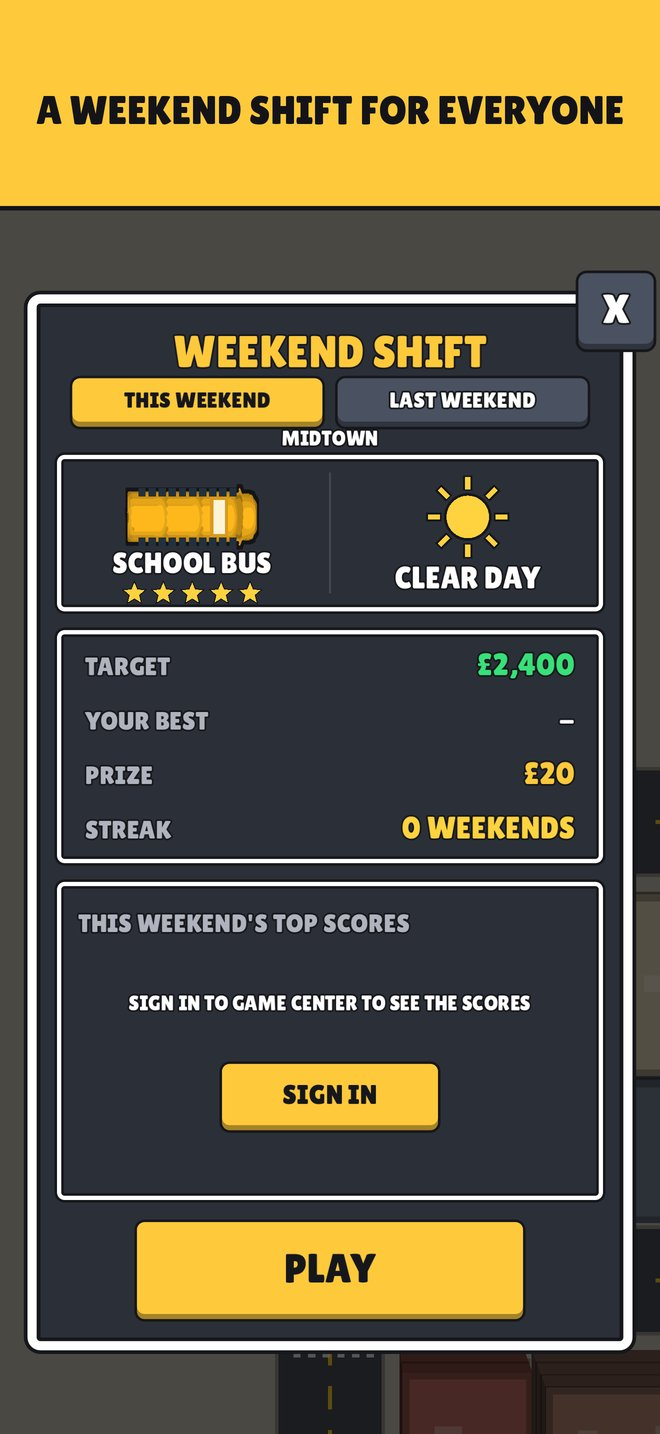
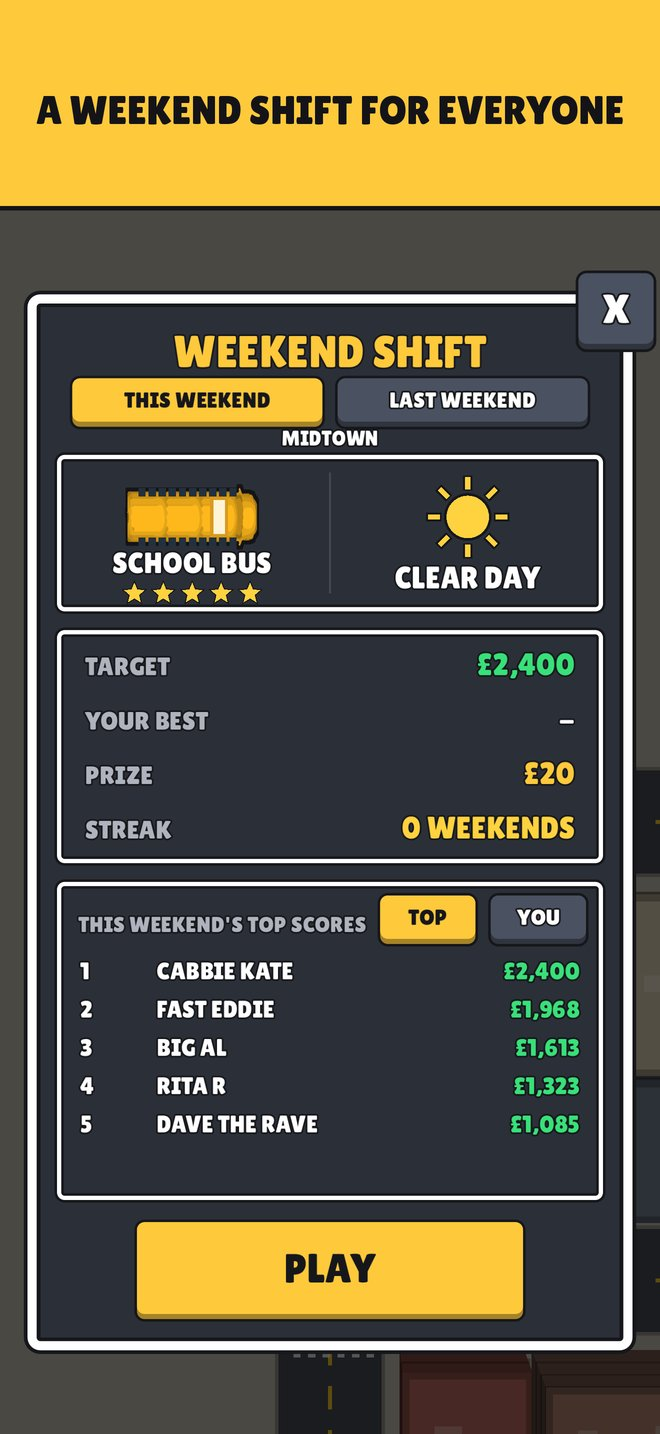
Taxi Dash page redesigned from the game's own city (asphalt, pavement, taxi yellow, road markings), the drift as its hero; clips in a strip, screenshots in a row; the leaderboard screenshot with players

Changed region(s): [[0.1212, 0.6137, 0.9091, 0.7978]]

diff --git a/taxi-dash/index.html b/taxi-dash/index.html
@@ -4,130 +4,290 @@
   <meta charset="UTF-8">
   <meta name="viewport" content="width=device-width, initial-scale=1.0">
   <title>Taxi Dash</title>
-  <meta name="description" content="Taxi Dash: a one-thumb arcade driving game for iPhone and iPad. Pick up. Drift. Drop off.">
+  <meta name="description" content="Taxi Dash is a one-thumb arcade driving game for iPhone and iPad. Pick up fares, choose your own route, drift round corners and beat the clock. Out 14 January 2027.">
   <meta property="og:title" content="Taxi Dash">
-  <meta property="og:description" content="Pick up. Drift. Drop off. A one-thumb arcade driving game for iPhone and iPad.">
-  <meta property="og:image" content="https://aknightsgame.github.io/taxi-dash/media/header.jpg">
-  <link rel="stylesheet" href="../assets/style.css">
+  <meta property="og:description" content="Pick up. Drift. Drop off. A one-thumb arcade driving game for iPhone and iPad, out 14 January 2027.">
+  <meta property="og:image" content="https://aknightsgame.github.io/taxi-dash/media/header-small.jpg">
+  <meta name="theme-color" content="#3e424a">
+  <link rel="preconnect" href="https://fonts.googleapis.com">
+  <link rel="preconnect" href="https://fonts.gstatic.com" crossorigin>
+  <link href="https://fonts.googleapis.com/css2?family=Atkinson+Hyperlegible:ital,wght@0,400;0,700;1,400&family=Lilita+One&display=swap" rel="stylesheet">
   <style>
-    .wide { max-width: 1100px; }
-    .header-img { width: 100%; display: block; border-radius: 20px; border: 3px solid #5c5c94; box-shadow: 0 8px 40px rgba(0,0,0,0.6); }
-    .tagline { font-size: 1.25rem; color: #ffc93c; font-weight: 700; letter-spacing: 0.06em; text-transform: uppercase; margin: 8px 0 4px; }
-    .lede { max-width: 640px; margin: 12px auto 0; }
-    .grid { display: grid; grid-template-columns: repeat(auto-fill, minmax(220px, 1fr)); gap: 20px; margin-top: 16px; }
-    .grid figure { margin: 0; }
-    .grid video, .grid img { width: 100%; display: block; border-radius: 14px; border: 2px solid #5c5c94; background: #000; }
-    .grid figcaption { font-size: 0.85rem; color: #c0c0da; margin-top: 8px; text-align: center; }
-    .preview { display: flex; gap: 32px; align-items: center; flex-wrap: wrap; }
-    .preview video { width: 300px; max-width: 100%; border-radius: 18px; border: 3px solid #5c5c94; background: #000; }
-    .preview div { flex: 1; min-width: 260px; }
-    .facts li { margin-bottom: 8px; }
-    @media (max-width: 600px) { .panel { padding: 28px 20px; } nav { padding: 14px 16px; } }
+    /* The page is drawn from the game's own top-down city: asphalt, the sand
+       pavement, taxi yellow, road markings as the dividers. */
+    :root {
+      --asphalt: #3e424a;
+      --asphalt-deep: #33363d;
+      --pavement: #ecdaa6;
+      --pavement-edge: #d9c48a;
+      --taxi: #ffc93c;
+      --marking: #f3f1ea;
+      --ink: #17181b;
+      --sea: #2e8fc7;
+      --display: "Lilita One", "Arial Rounded MT Bold", system-ui, sans-serif;
+      --body: "Atkinson Hyperlegible", system-ui, -apple-system, sans-serif;
+      --measure: 34rem;
+    }
+
+    *, *::before, *::after { box-sizing: border-box; }
+    html { -webkit-text-size-adjust: 100%; }
+    body {
+      margin: 0;
+      font-family: var(--body);
+      font-size: 1.0625rem;
+      line-height: 1.6;
+      color: var(--marking);
+      background: var(--asphalt);
+    }
+    img, video { display: block; max-width: 100%; }
+    a { color: inherit; }
+    :focus-visible { outline: 3px solid var(--taxi); outline-offset: 3px; }
+
+    h1, h2, h3 { font-family: var(--display); font-weight: 400; line-height: 1.05; margin: 0; }
+    h2 { font-size: clamp(2rem, 4.5vw, 3rem); }
+    h3 { font-size: 1.35rem; }
+    p { margin: 0 0 1em; max-width: var(--measure); }
+
+    .wrap { width: min(1120px, 100% - 2rem); margin-inline: auto; }
+
+    /* Top bar */
+    .bar {
+      position: absolute; inset: 0 0 auto 0; z-index: 2;
+      display: flex; justify-content: space-between; align-items: center;
+      padding: 1rem clamp(1rem, 3vw, 2rem);
+      font-weight: 700;
+    }
+    .bar a { text-decoration: none; color: var(--ink); background: var(--marking); padding: .35rem .8rem; border-radius: 999px; border: 2px solid var(--ink); font-size: .9rem; }
+    .bar a:hover { background: var(--taxi); }
+
+    /* Hero: the game's own frame, full bleed, the title in a panel framed like the game's pop-ups */
+    .hero { position: relative; background: var(--asphalt); }
+    .hero picture img {
+      width: 100%; height: min(86vh, 56.25vw); min-height: 460px;
+      object-fit: cover; object-position: 56% 45%;
+    }
+    .sign {
+      position: absolute; left: clamp(1rem, 5vw, 4rem); bottom: clamp(1rem, 5vw, 3.5rem);
+      max-width: 38rem;
+      background: var(--asphalt-deep);
+      border: 3px solid var(--ink);
+      box-shadow: 0 0 0 6px var(--marking), 0 0 0 9px var(--ink), 0 18px 40px rgba(23,24,27,.45);
+      border-radius: 18px;
+      padding: clamp(1.25rem, 3vw, 2rem) clamp(1.25rem, 3vw, 2.25rem);
+    }
+    .sign h1 {
+      font-size: clamp(3.2rem, 8vw, 6rem);
+      white-space: nowrap;
+      color: var(--taxi);
+      letter-spacing: .01em;
+      text-shadow: 0 4px 0 var(--ink);
+      -webkit-text-stroke: 2px var(--ink);
+      paint-order: stroke fill;
+    }
+    .sign .line { font-family: var(--display); font-size: clamp(1.3rem, 2.6vw, 1.7rem); margin: .35rem 0 .9rem; }
+    .sign p { color: #d9dbe0; margin-bottom: 1.25rem; }
+    .actions { display: flex; flex-wrap: wrap; gap: .75rem; align-items: center; }
+    .button {
+      display: inline-block; font-family: var(--display); font-size: 1.15rem; text-decoration: none;
+      color: var(--ink); background: var(--taxi); border: 3px solid var(--ink); border-radius: 12px;
+      padding: .55rem 1.15rem .5rem; box-shadow: 0 4px 0 var(--ink);
+      transition: transform .12s ease, box-shadow .12s ease;
+    }
+    .button:hover { transform: translateY(2px); box-shadow: 0 2px 0 var(--ink); }
+    .button.quiet { background: var(--marking); }
+    .date { font-weight: 700; color: var(--taxi); }
+
+    /* Dividers are road markings */
+    .centre-line {
+      height: 10px; margin: 0;
+      background: repeating-linear-gradient(90deg, var(--taxi) 0 46px, transparent 46px 84px);
+    }
+    .zebra {
+      height: 44px;
+      background: repeating-linear-gradient(90deg, var(--marking) 0 22px, var(--asphalt) 22px 44px);
+    }
+
+    section { padding: clamp(3.5rem, 8vw, 6rem) 0; }
+
+    /* Preview */
+    .preview .wrap { display: grid; grid-template-columns: minmax(0, 320px) 1fr; gap: clamp(2rem, 6vw, 5rem); align-items: center; }
+    .phone {
+      background: var(--ink); border-radius: 44px; padding: 12px;
+      box-shadow: 0 30px 60px rgba(0,0,0,.35);
+    }
+    .phone video { width: 100%; border-radius: 32px; aspect-ratio: 590 / 1280; background: var(--ink); }
+    .preview h2 { color: var(--taxi); margin-bottom: 1rem; }
+    .facts { list-style: none; padding: 0; margin: 1.75rem 0 0; display: grid; gap: .9rem; max-width: 36rem; }
+    .facts li { padding-left: 1.4rem; position: relative; }
+    .facts li::before { content: ""; position: absolute; left: 0; top: .55em; width: .65rem; height: .65rem; border-radius: 3px; background: var(--taxi); }
+    .facts strong { color: #fff; }
+
+    /* Districts: clips on the pavement */
+    .pavement { background: var(--pavement); color: var(--ink); }
+    .pavement h2 { margin-bottom: .75rem; }
+    .intro { display: flex; justify-content: space-between; align-items: end; gap: 1.5rem; flex-wrap: wrap; margin-bottom: 2.25rem; }
+    .intro p { margin: 0; }
+    .clips { display: grid; grid-template-columns: repeat(7, minmax(0, 1fr)); gap: 1rem; margin: 0; padding: 0; list-style: none; }
+    .clips figure { margin: 0; }
+    .clips video { width: 100%; aspect-ratio: 590 / 1280; border-radius: 14px; border: 3px solid var(--ink); background: var(--ink); }
+    .clips figcaption { margin-top: .6rem; font-weight: 700; font-size: .9rem; line-height: 1.3; }
+
+    /* Screenshots */
+    .shots { display: grid; grid-template-columns: repeat(6, minmax(0, 1fr)); gap: 1rem; }
+    .shots a { scroll-snap-align: start; }
+    .shots img { width: 100%; border-radius: 16px; border: 3px solid var(--ink); }
+    .shots-section h2 { color: var(--taxi); margin-bottom: 2rem; }
+
+    /* Fair play */
+    .fair .wrap { display: grid; grid-template-columns: repeat(3, minmax(0, 1fr)); gap: clamp(1.5rem, 4vw, 3rem); }
+    .fair h3 { margin-bottom: .6rem; }
+    .fair p { font-size: 1rem; }
+    .fair h2 { grid-column: 1 / -1; margin-bottom: .5rem; }
+
+    footer { background: var(--asphalt-deep); padding: 2.5rem 0 3rem; font-size: .95rem; color: #c9ccd3; }
+    footer .wrap { display: flex; justify-content: space-between; gap: 1.5rem; flex-wrap: wrap; }
+    footer a { color: var(--taxi); }
+    footer p { margin: 0; }
+
+    @media (max-width: 1000px) {
+      .clips, .shots { grid-template-columns: none; grid-auto-flow: column; grid-auto-columns: 46%; overflow-x: auto; scroll-snap-type: x mandatory; padding-bottom: 1rem; }
+      .clips li, .shots a { scroll-snap-align: start; }
+    }
+    @media (max-width: 760px) {
+      .sign h1 { white-space: normal; }
+      .preview .wrap { grid-template-columns: 1fr; }
+      .phone { max-width: 300px; margin-inline: auto; }
+      .fair .wrap { grid-template-columns: 1fr; }
+      .hero picture img { height: 110vw; max-height: 640px; min-height: 380px; object-position: 56% 42%; }
+      .sign { position: relative; left: auto; bottom: auto; margin: -5rem 1rem 0; max-width: none; }
+      .hero { padding-bottom: 2.5rem; }
+    }
+    @media (prefers-reduced-motion: reduce) {
+      .button { transition: none; }
+      .button:hover { transform: none; }
+    }
   </style>
 </head>
 <body>
-  <nav>
-    <a class="brand" href="/">A Knight's Game</a>
-    <a href="#clips">Clips</a>
-    <a href="#screenshots">Screenshots</a>
-    <a href="mailto:aknightsgame@gmail.com">Contact</a>
-  </nav>
-
-  <div class="container wide">
-    <img class="header-img" src="media/header.jpg" alt="A yellow taxi drifting round a corner on a sunny island, by a wooden bridge and the sea">
-
-    <div class="hero">
+  <header class="hero">
+    <nav class="bar" aria-label="Site">
+      <a href="/">A Knight's Game</a>
+      <a href="mailto:aknightsgame@gmail.com">Contact</a>
+    </nav>
+    <picture>
+      <source media="(max-width: 760px)" srcset="media/header-small.jpg">
+      <img src="media/header.jpg" alt="Seen from above, a yellow taxi drifts to a stop beside a waiting passenger on a sunny island, skid marks behind it, a wooden bridge and the sea ahead." width="2400" height="1350">
+    </picture>
+    <div class="sign">
       <h1>Taxi Dash</h1>
-      <p class="tagline">Pick up. Drift. Drop off.</p>
-      <p class="lede">A one-thumb arcade driving game for iPhone and iPad, in portrait. Pick up fares, choose your own route through the city with an edge-of-screen compass, flick to turn, hold to brake and drift round corners to beat the clock.</p>
-      <p><span class="badge">iPhone &amp; iPad</span><span class="badge" style="background:#5a4410;border-color:#ffc93c;color:#ffe9a8;">Out 14 January 2027</span></p>
+      <p class="line">Pick up. Drift. Drop off.</p>
+      <p>A one-thumb arcade driving game for iPhone and iPad. Flick to turn, hold to brake, and get every fare there before the clock runs out. <span class="date">Out 14 January 2027.</span></p>
+      <div class="actions">
+        <a class="button" href="#preview">Watch the preview</a>
+        <a class="button quiet" href="#districts">See the districts</a>
+      </div>
     </div>
+  </header>
 
-    <div class="panel" id="preview">
-      <div class="preview">
-        <video src="media/preview.mp4" poster="media/preview.jpg" controls playsinline preload="metadata"></video>
+  <div class="centre-line" role="presentation"></div>
+
+  <section class="preview" id="preview">
+    <div class="wrap">
+      <div class="phone">
+        <video src="media/preview.mp4" poster="media/preview.jpg" controls playsinline preload="none" aria-label="Taxi Dash app preview, 30 seconds of gameplay"></video>
+      </div>
+      <div>
+        <h2>A city full of people in a hurry</h2>
+        <p>You get a clock, a cab and an edge-of-screen compass. The route is up to you. Stop in the zone for a full tip, swing a U-turn into a pickup for a bonus, or grab a bolt in the road and let a super boost take over.</p>
+        <ul class="facts">
+          <li><strong>15 districts</strong>, each changing how you drive: lifting bridges, traffic lights, dust storms, match days, icy slopes and power cuts.</li>
+          <li><strong>17 cabs</strong> to collect card by card, from a golf cart and an ice cream van to a fire truck and a monster truck.</li>
+          <li><strong>Driving School</strong> lessons teach every move, and a bump only slows you down.</li>
+          <li><strong>A weekend shift</strong> that's the same for everyone, with its own Game Center leaderboard.</li>
+        </ul>
+      </div>
+    </div>
+  </section>
+
+  <div class="zebra" role="presentation"></div>
+
+  <section class="pavement" id="districts">
+    <div class="wrap">
+      <div class="intro">
         <div>
-          <h2 style="margin-top:0">App preview</h2>
-          <p>Real gameplay, captured from the game: six districts and six cabs, from a classic cab in Downtown to a golf cart on a super boost at the Seaside.</p>
-          <ul class="facts">
-            <li><strong>15 districts</strong>, each changing how you drive: lifting bridges, traffic lights, dust storms, match days, icy slopes, power cuts.</li>
-            <li><strong>17 cabs</strong> collected card by card, from a golf cart to a monster truck.</li>
-            <li><strong>Driving School</strong> lessons teach every move, and a crash only slows the cab: rated 4+.</li>
-            <li><strong>A weekend shift</strong> that's the same for everyone, with a Game Center leaderboard.</li>
-            <li><strong>Accessibility:</strong> Reduced Motion, Larger Text and Colour Cues. <strong>10 languages.</strong></li>
-            <li>Free, with optional rewarded ads only: no interstitials.</li>
-          </ul>
+          <h2>Every district drives differently</h2>
+          <p>Real gameplay, captured from the game.</p>
         </div>
       </div>
+      <ul class="clips">
+        <li><figure><video src="media/islands.mp4" poster="media/islands.jpg" muted loop playsinline preload="none" controls></video><figcaption>Choose your own route across the Islands</figcaption></figure></li>
+        <li><figure><video src="media/boost.mp4" poster="media/boost.jpg" muted loop playsinline preload="none" controls></video><figcaption>Grab a bolt and go super boost</figcaption></figure></li>
+        <li><figure><video src="media/size.mp4" poster="media/size.jpg" muted loop playsinline preload="none" controls></video><figcaption>Super size: ram straight through the traffic</figcaption></figure></li>
+        <li><figure><video src="media/bridge.mp4" poster="media/bridge.jpg" muted loop playsinline preload="none" controls></video><figcaption>Bridgeport's bridges lift for the boats</figcaption></figure></li>
+        <li><figure><video src="media/storm.mp4" poster="media/storm.jpg" muted loop playsinline preload="none" controls></video><figcaption>Dust storms in the desert hide the compass</figcaption></figure></li>
+        <li><figure><video src="media/match.mp4" poster="media/match.jpg" muted loop playsinline preload="none" controls></video><figcaption>Match day at the Stadium</figcaption></figure></li>
+        <li><figure><video src="media/night.mp4" poster="media/night.jpg" muted loop playsinline preload="none" controls></video><figcaption>Power cuts in the Night Market</figcaption></figure></li>
+      </ul>
     </div>
+  </section>
 
-    <div class="panel" id="clips">
-      <h2 style="margin-top:0">Clips</h2>
-      <div class="grid">
-        <figure>
-          <video src="media/islands.mp4" poster="media/islands.jpg" controls muted loop playsinline preload="none"></video>
-          <figcaption>Choose your own route across the Islands</figcaption>
-        </figure>
-        <figure>
-          <video src="media/boost.mp4" poster="media/boost.jpg" controls muted loop playsinline preload="none"></video>
-          <figcaption>Grab a bolt: super boost</figcaption>
-        </figure>
-        <figure>
-          <video src="media/size.mp4" poster="media/size.jpg" controls muted loop playsinline preload="none"></video>
-          <figcaption>Super size: ram the traffic</figcaption>
-        </figure>
-        <figure>
-          <video src="media/bridge.mp4" poster="media/bridge.jpg" controls muted loop playsinline preload="none"></video>
-          <figcaption>Bridgeport's bridges lift for the boats</figcaption>
-        </figure>
-        <figure>
-          <video src="media/storm.mp4" poster="media/storm.jpg" controls muted loop playsinline preload="none"></video>
-          <figcaption>Dust storms hide the compass</figcaption>
-        </figure>
-        <figure>
-          <video src="media/match.mp4" poster="media/match.jpg" controls muted loop playsinline preload="none"></video>
-          <figcaption>Match day at the Stadium</figcaption>
-        </figure>
-        <figure>
-          <video src="media/night.mp4" poster="media/night.jpg" controls muted loop playsinline preload="none"></video>
-          <figcaption>Power cuts in the Night Market</figcaption>
-        </figure>
+  <div class="zebra" role="presentation"></div>
+
+  <section class="shots-section">
+    <div class="wrap">
+      <h2>Screenshots</h2>
+      <div class="shots">
+        <a href="media/shot1.jpg"><img src="media/shot1.jpg" alt="Pick up. Drift. Drop off: the taxi beside a waiting passenger on the Islands" width="660" height="1434"></a>
+        <a href="media/shot2.jpg"><img src="media/shot2.jpg" alt="Grab a bolt. Go super: a super boost on the Seaside" width="660" height="1434"></a>
+        <a href="media/shot3.jpg"><img src="media/shot3.jpg" alt="Beat the lifting bridges: a bridge lifting in Bridgeport" width="660" height="1434"></a>
+        <a href="media/shot4.jpg"><img src="media/shot4.jpg" alt="Open 15 districts: the Districts page with its medals" width="660" height="1434"></a>
+        <a href="media/shot5.jpg"><img src="media/shot5.jpg" alt="Collect 17 cabs: the Cards page" width="660" height="1434"></a>
+        <a href="media/shot6.jpg"><img src="media/shot6.jpg" alt="A weekend shift for everyone: the Weekend Shift page and its leaderboard" width="660" height="1434"></a>
       </div>
     </div>
+  </section>
 
-    <div class="panel" id="screenshots">
-      <h2 style="margin-top:0">Screenshots</h2>
-      <div class="grid">
-        <figure>
-          <a href="media/shot1.jpg"><img src="media/shot1.jpg" alt="Pick up. Drift. Drop off." loading="lazy"></a>
-        </figure>
-        <figure>
-          <a href="media/shot2.jpg"><img src="media/shot2.jpg" alt="Grab a bolt. Go super!" loading="lazy"></a>
-        </figure>
-        <figure>
-          <a href="media/shot3.jpg"><img src="media/shot3.jpg" alt="Beat the lifting bridges" loading="lazy"></a>
-        </figure>
-        <figure>
-          <a href="media/shot4.jpg"><img src="media/shot4.jpg" alt="Open 15 districts" loading="lazy"></a>
-        </figure>
-        <figure>
-          <a href="media/shot5.jpg"><img src="media/shot5.jpg" alt="Collect 17 cabs" loading="lazy"></a>
-        </figure>
-        <figure>
-          <a href="media/shot6.jpg"><img src="media/shot6.jpg" alt="A weekend shift for everyone" loading="lazy"></a>
-        </figure>
+  <div class="centre-line" role="presentation"></div>
+
+  <section class="fair">
+    <div class="wrap">
+      <h2>Made for everyone</h2>
+      <div>
+        <h3>Easy to pick up</h3>
+        <p>One thumb, portrait, short shifts. Driving School lessons teach each move as it comes, and a crash never ends your shift. Rated 4+, with no violence.</p>
+      </div>
+      <div>
+        <h3>Accessible</h3>
+        <p>Reduced Motion turns off shake, zoom, spins and falling weather. Larger Text and Colour Cues, with shapes on everything shown by colour, are a switch away in Settings and the pause menu.</p>
+      </div>
+      <div>
+        <h3>Fair to play</h3>
+        <p>Free, in 10 languages. Ads are optional and rewarded only: no interstitials, ever. Every cab is earned by playing, never bought.</p>
       </div>
     </div>
-
-    <div class="panel">
-      <h2 style="margin-top:0">About</h2>
-      <p>Made by a solo developer in the UK. For press and featuring enquiries: <a href="mailto:aknightsgame@gmail.com">aknightsgame@gmail.com</a>.</p>
-      <a class="btn" href="privacy-policy.html">Privacy Policy</a>
-    </div>
-  </div>
+  </section>
 
   <footer>
-    &copy; 2026 A Knight's Game &nbsp;·&nbsp; <a href="mailto:aknightsgame@gmail.com">aknightsgame@gmail.com</a>
+    <div class="wrap">
+      <p>Taxi Dash is made by A Knight's Game, a solo developer in the UK.</p>
+      <p><a href="mailto:aknightsgame@gmail.com">aknightsgame@gmail.com</a> &nbsp; <a href="privacy-policy.html">Privacy policy</a> &nbsp; &copy; 2026</p>
+    </div>
   </footer>
+
+  <script>
+    // Clips play by themselves while on screen (muted), unless the viewer prefers reduced motion.
+    (function () {
+      if (!('IntersectionObserver' in window)) return;
+      if (window.matchMedia('(prefers-reduced-motion: reduce)').matches) return;
+      var seen = new IntersectionObserver(function (entries) {
+        entries.forEach(function (e) {
+          var v = e.target;
+          if (e.isIntersecting) { v.preload = 'auto'; var p = v.play(); if (p && p.catch) p.catch(function () {}); }
+          else v.pause();
+        });
+      }, { threshold: 0.5 });
+      document.querySelectorAll('.clips video').forEach(function (v) { seen.observe(v); });
+    })();
+  </script>
 </body>
 </html>
